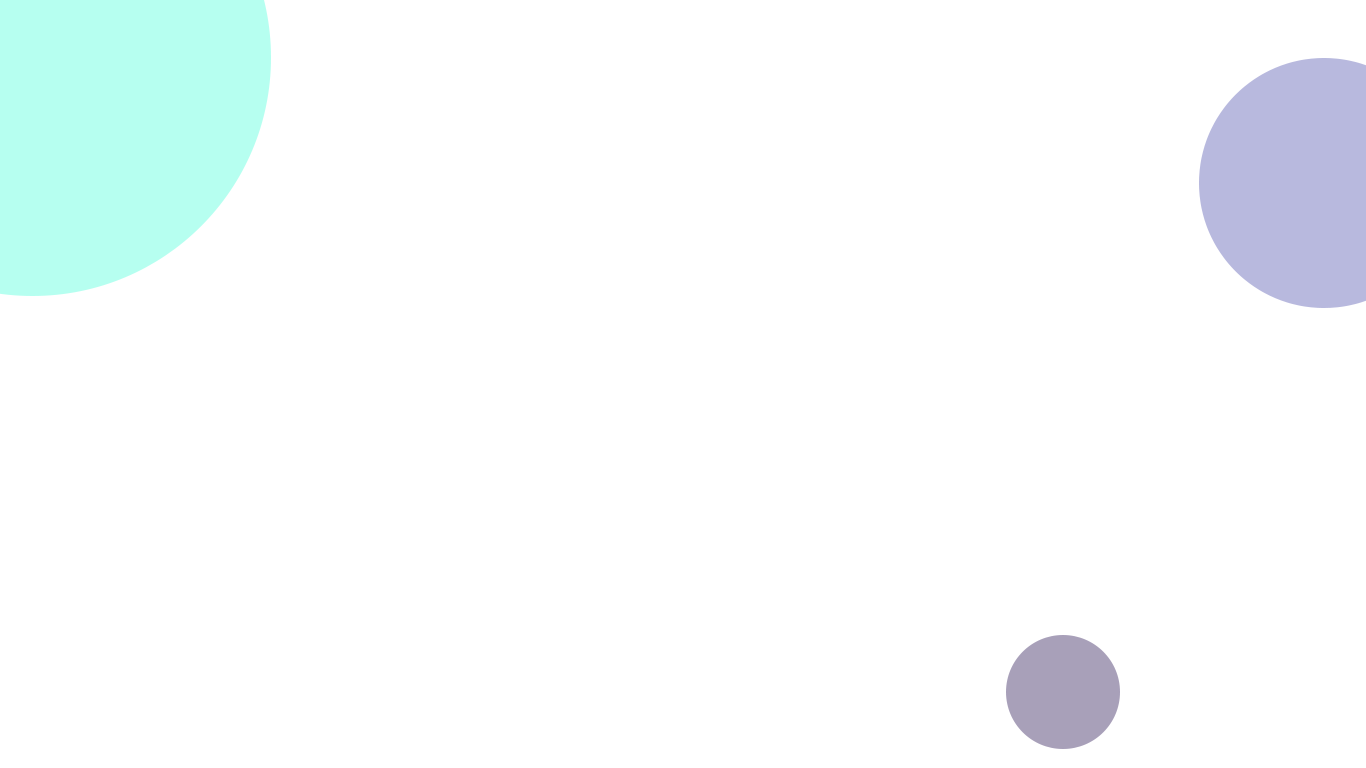
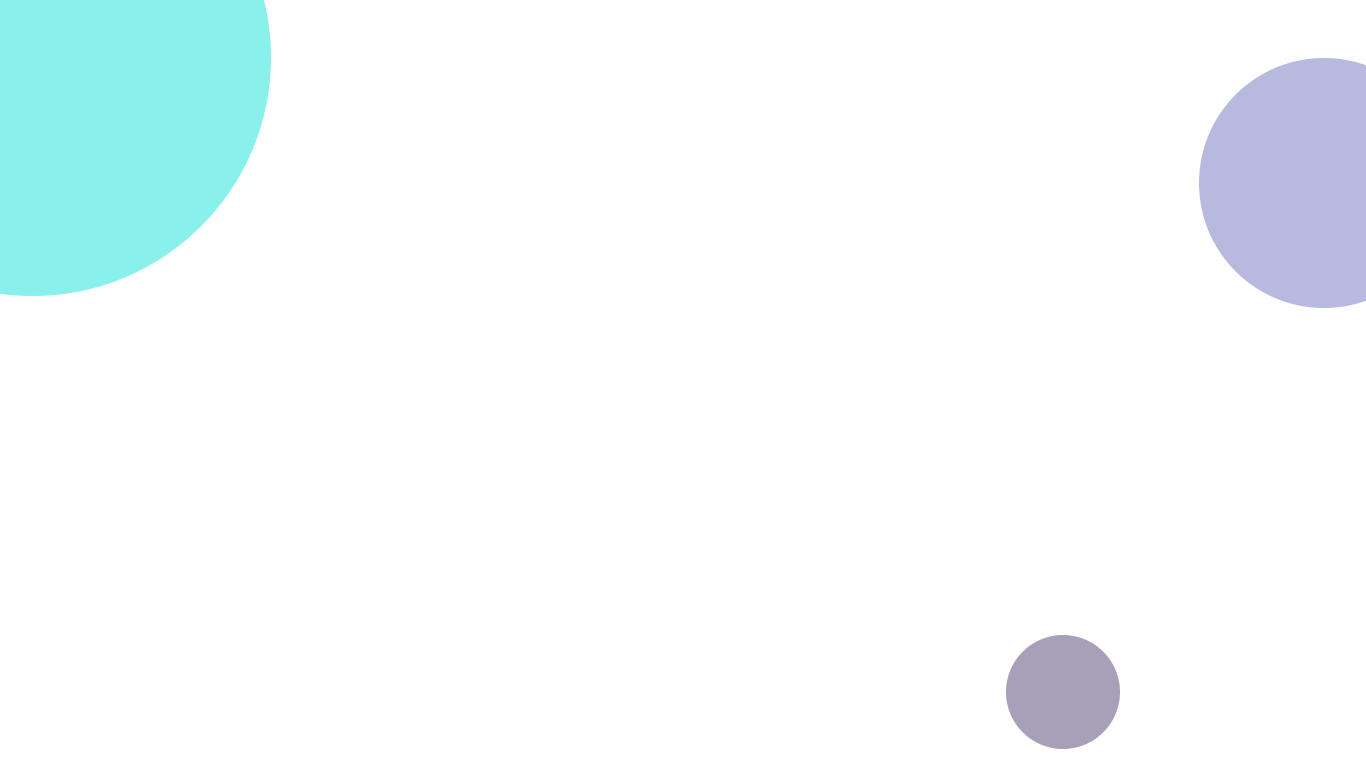
updates to green color and hover on all links

Changed region(s): [[0.0, 0.0, 0.2152, 0.4062]]

diff --git a/media/index.html b/media/index.html
@@ -76,19 +76,19 @@
                     <p class="rev-title">Flora the Red Menace</p>
                     <img src="../img/review-1.jpg">
                     <p class="rev-descript">Review of Flora the Red Menace at 42nd Street Moon</p>
-                    <a href="https://www.talkinbroadway.com/page/regional/sanfran/s854.html" class="review-link">Check it out here!</a>
+                    <a href="https://www.talkinbroadway.com/page/regional/sanfran/s854.html" class="review-link" target="_blank">Check it out here!</a>
                 </div>
                 <div class="review">
                     <p class="rev-title">They Say It’s Wonderful</p>
                     <img src="../img/review-2.jpg">
                     <p class="rev-descript">Review of They Say It’s Wonderful at Sacramento Theatre Company</p>
-                    <a href="http://sacramentopress.com/2011/01/29/they-say-its-wonderful-at-stc-cabaret-series-and-it-is/" class="review-link">Check it out here!</a> 
+                    <a href="http://sacramentopress.com/2011/01/29/they-say-its-wonderful-at-stc-cabaret-series-and-it-is/" class="review-link" target="_blank">Check it out here!</a> 
                 </div>
                 <div class="review">
                     <p class="rev-title">The Daily Mail</p>
                     <img src="../img/review-3.jpg">
                     <p class="rev-descript">Maggie featured in a Daily Mail article about Sister Act the Musical</p>
-                    <a href="http://www.dailymail.co.uk/tvshowbiz/article-1220716/Holy-fishnets-My-night-naughty-nun-Sister-Act.html" class="review-link">Check it out here!</a>
+                    <a href="http://www.dailymail.co.uk/tvshowbiz/article-1220716/Holy-fishnets-My-night-naughty-nun-Sister-Act.html" class="review-link" target="_blank">Check it out here!</a>
                 </div>
                 <div class="review-top">
                     <a href="#top"><div>Top</div></a>

diff --git a/about/index.html b/about/index.html
@@ -51,7 +51,7 @@
         </section>
         <section class="sub-page">
             <div class="about-content">
-                <p class="update">Maggie is currently performing in the North American Tour of <br><a href=" http://lesmiz.com" alt="les miserables">Les Misérables</a> <a href="http://askifitsequity.com" alt="actor's equity">#askifitsequity</a></p>
+                <p class="update">Maggie is currently performing in the North American Tour of <br><a href=" http://lesmiz.com" alt="les miserables" target="_blank">Les Misérables</a> <a href="http://askifitsequity.com" alt="actor's equity" target="_blank">#askifitsequity</a></p>
                 <p class="bio">Maggie made her West End début with the original cast of Sister Act the Musical at the London Palladium. She understudied and had the privilege to play the role of Sister Mary Robert alongside Whoopi Goldberg when she joined the cast, this time as Mother Superior. She then flew to New York to perform in the Sister Act Broadway Press Launch with Whoopi and composer, Alan Menken.</p> 
                 <p class="bio">Returning to the Palladium, Maggie performed in Andrew Lloyd Webber’s revival of The Wizard of Oz, starring Michael Crawford (alternating her time playing a Munchkin and flying around Oz as Glinda the Good Witch). She was one of ten actors chosen to workshop the show with Lord Webber himself before it premiered on the West End.</p>
                 <p class="bio">Maggie trained at The Royal Academy of Music in London after earning her Bachelor’s Degree at the University of California, Davis. She grew up in Sacramento, California where began performing at a young age with local organizations including River City Theatre Company, The Sacramento Children’s Chorus and California Musical Theatre’s renowned Music Circus. </p>

diff --git a/css/main.css b/css/main.css
@@ -108,6 +108,10 @@ body {
     width: 100%;
 }
 
+a:hover {
+    color: #16E2D8;
+}
+
 .titles a {
     text-decoration: none;
 }
@@ -258,6 +262,14 @@ li a:hover {
     margin-top: 15px;
 }
 
+.update a:visited {
+    color: #261151;
+}
+
+.update a:hover {
+    color: #16E2D8;
+}
+
 .bio {
     color: white;
     line-height: 26px;
@@ -347,7 +359,7 @@ h4 {
     height: 100%; 
 }
 
-.top {
+/*.top {
     clear: both;
     font-size: 18px;
     margin: 0 1.5% 20px 1.5%;
@@ -368,6 +380,10 @@ h4 {
 .top a:visited {
     color: #261151;
 }
+
+.top a:hover {
+    color: #16E2D8;
+}*/
 
 .med-reviews {
     background-color: white;
@@ -393,6 +409,10 @@ h4 {
 
 .review a:visited {
     color: #261151;
+}
+
+.review a:hover {
+    color: #16E2D8;
 }
 
 .rev-title {
@@ -424,8 +444,12 @@ h4 {
     color: white;
 }
 
+.review-top a:hover {
+    color: #16E2D8;
+}
+
 .med-photos {
-    background-color: #9effeb;
+    background-color: #16E2D8;
     color: #261151;
     font-size: 14px;
     padding: 40px 9%;
@@ -459,6 +483,10 @@ h4 {
     color: white;
 }
 
+.photo-top a:hover {
+    color: #16E2D8;
+}
+
 /*sfys page*/
 
 .sfys-content {
@@ -486,7 +514,7 @@ h4 {
 }
 
 .sfys-content a:hover {
-    color: #9effeb;
+    color: #16E2D8;
     font-size: 16px;
 }
 

diff --git a/sfys/index.html b/sfys/index.html
@@ -53,7 +53,7 @@
             <img class="sfys-img" src="../img/sfys.jpg">
             <div class="sfys-content">
                 <p class="title">Sing For Your Seniors</p>
-                <a href="http://singforyourseniors.org" alt ="sing for your seniors non-profit">Check out their website</a><br><a href="" alt="amazon smile">Give to SFYS through Amazon Smile</a>
+                <a href="http://singforyourseniors.org" alt ="sing for your seniors non-profit" target="_blank">Check out their website</a><br><a href="" alt="amazon smile" target="_blank">Give to SFYS through Amazon Smile</a>
                 <p class="bio">Lorem ipsum dolor sit amet, consectetur adipisicing elit, sed do eiusmod
                 tempor incididunt ut labore et dolore magna aliqua. Ut enim ad minim veniam,
                 quis nostrud exercitation ullamco laboris nisi ut aliquip ex ea commodo
@@ -69,7 +69,7 @@
             </div>
         </section>
         <footer>
-            <p>Reach me at <a href="#">maggiemayfromca@gmail.com</a>!</p>
+            <p>Reach me at <a href="mailto:maggie.elizabeth.may@gmail.com">maggiemayfromca@gmail.com</a>!</p>
         </footer>
 
         <script src="../js/vendor/modernizr-3.5.0.min.js"></script>
